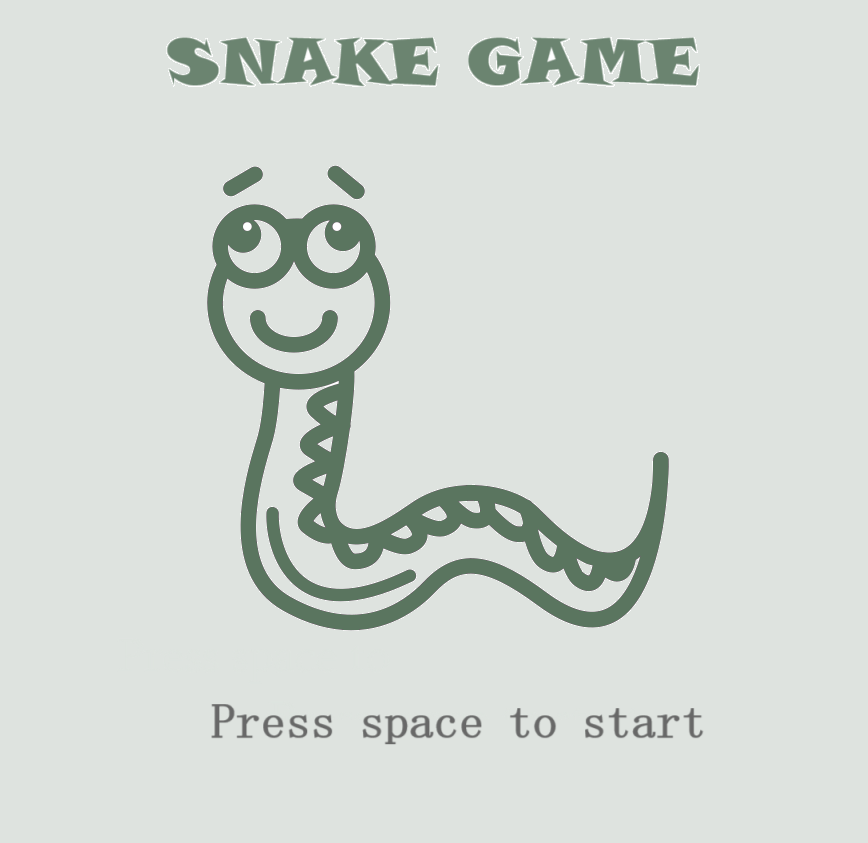
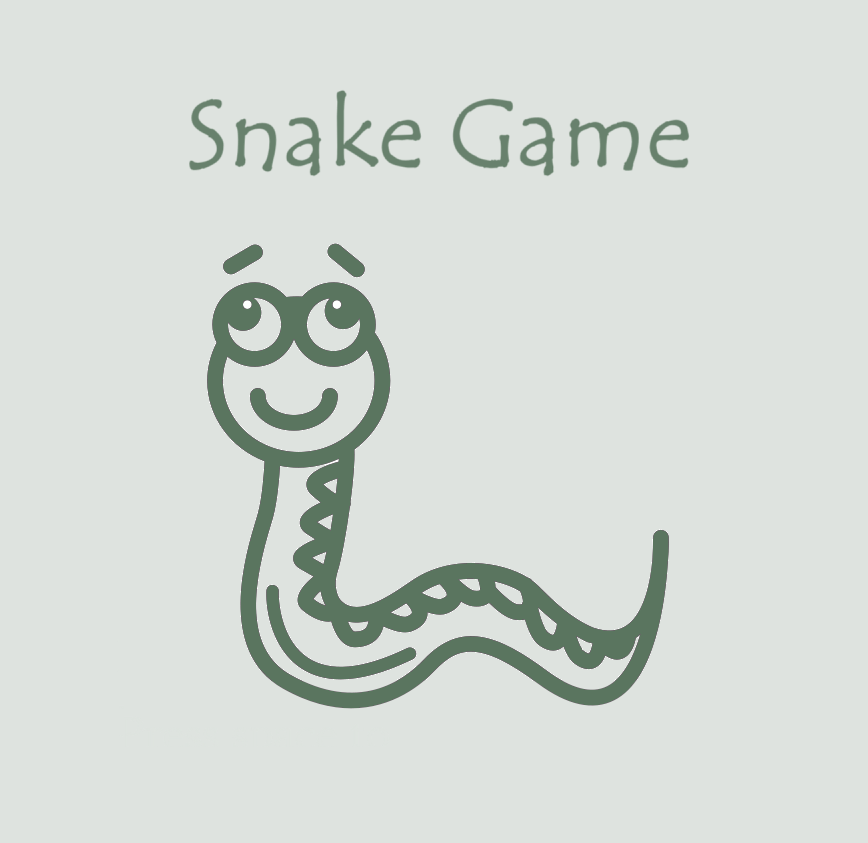
Updated version

Changed region(s): [[0.1866, 0.0308, 0.8088, 0.8944]]

diff --git a/index.html b/index.html
@@ -6,9 +6,10 @@
     <link rel="preconnect" href="https://fonts.googleapis.com" />
     <link rel="preconnect" href="https://fonts.gstatic.com" crossorigin />
     <link
-      href="https://fonts.googleapis.com/css2?family=Black+Ops+One&display=swap"
+      href="https://fonts.googleapis.com/css2?family=Averia+Sans+Libre:wght@300&display=swap"
       rel="stylesheet"
     />
+
     <title>Snake game</title>
     <link rel="stylesheet" href="style.css" />
   </head>
@@ -17,13 +18,42 @@
       <div class="scores">
         <h1 id="score">000</h1>
       </div>
+
       <div class="game-border-1">
+        <img id="logo" src="snake.png" alt="snake-logo" />
         <div class="game-border-2">
           <div id="gameBoard"></div>
         </div>
       </div>
+
+      <div id="description-start">
+        <p>Press space to start</p>
+      </div>
+
+      <div class="arrows-container">
+        <div class="arrow-row">
+          <bottom onclick="moveup()"><img id="up" src="arrow.svg" /></bottom>
+        </div>
+
+        <div class="arrow-row" id="row">
+          <bottom onclick="moveleft()"
+            ><img id="left" src="arrow.svg"
+          /></bottom>
+
+          <bottom onclick="start()" id="start">START</bottom>
+
+          <bottom onclick="moveright()"
+            ><img id="right" src="arrow.svg"
+          /></bottom>
+        </div>
+        <div class="arrow-row">
+          <bottom onclick="movedown()">
+            <img id="down" src="arrow.svg"
+          /></bottom>
+        </div>
+      </div>
     </div>
-    <img id="logo" src="snake.png" alt="snake-logo" />
+
     <script src="script.js"></script>
   </body>
 </html>

diff --git a/style.css b/style.css
@@ -5,7 +5,7 @@ body {
   justify-content: center;
   height: 100vh;
   margin: 0;
-  font-family: "Black Ops One", system-ui;
+  font-family: "Averia Sans Libre", sans-serif;
 }
 
 body,
@@ -55,7 +55,80 @@ body,
 
 #logo {
   position: absolute;
-  margin-top: 80px;
+  margin-top: 15px;
+  margin-left: 15px;
   width: 400px;
   height: 400px;
+}
+
+#description-start {
+  color: #9bbd9c;
+  text-align: center;
+  font-size: 19px;
+}
+
+.arrows-container {
+  display: none;
+  height: fit-content;
+  margin: 50px 0;
+}
+
+.arrow-row {
+  display: flex;
+  flex-direction: row;
+  align-content: center;
+  justify-content: center;
+  margin: 15px 0;
+}
+
+#row {
+  justify-content: space-evenly;
+}
+
+#up {
+  transform: rotate(-90deg);
+}
+
+#left {
+  transform: rotate(180deg);
+}
+
+#down {
+  transform: rotate(90deg);
+}
+
+#start {
+  color: #9bbd9c;
+  padding-top: 10px;
+  cursor: pointer;
+}
+
+@media only screen and (max-width: 600px) {
+  .arrows-container {
+    display: block;
+  }
+  .game-border-1 {
+    max-width: 360px;
+  }
+  .game-border-1 {
+    max-width: 360px;
+    max-height: 360px;
+  }
+
+  #logo {
+    position: absolute;
+    margin-top: 15px;
+    margin-left: 15px;
+    width: 280px;
+    height: 280px;
+  }
+
+  #gameBoard {
+    grid-template-columns: repeat(20, 14px);
+    grid-template-rows: repeat(20, 14px);
+  }
+
+  #description-start {
+    display: none;
+  }
 }

diff --git a/script.js b/script.js
@@ -1,6 +1,7 @@
 const board = document.getElementById("gameBoard");
 const logo = document.getElementById("logo");
 const score = document.getElementById("score");
+const description = document.getElementById("description-start");
 
 let snake = [{ x: 10, y: 10 }];
 let food = generateInt();
@@ -89,7 +90,7 @@ function move() {
 
 function startGame() {
   gameStarted = true;
-
+  description.style.display = "none";
   logo.style.display = "none";
   gameInterval = setInterval(() => {
     move();
@@ -120,6 +121,12 @@ function handleKeyPress(event) {
         direction = "right";
         break;
     }
+  }
+}
+
+function start() {
+  if (!gameStarted) {
+    startGame();
   }
 }
 
@@ -164,9 +171,26 @@ function stopGame() {
   clearInterval(gameInterval);
   gameStarted = false;
   logo.style.display = "block";
+  description.style.display = "block";
 }
 
 function updateScore() {
   const currentScore = snake.length - 1;
   score.textContent = currentScore.toString().padStart(3, "0");
+}
+
+function moveup() {
+  direction = "up";
+}
+
+function movedown() {
+  direction = "down";
+}
+
+function moveleft() {
+  direction = "left";
+}
+
+function moveright() {
+  direction = "right";
 }
